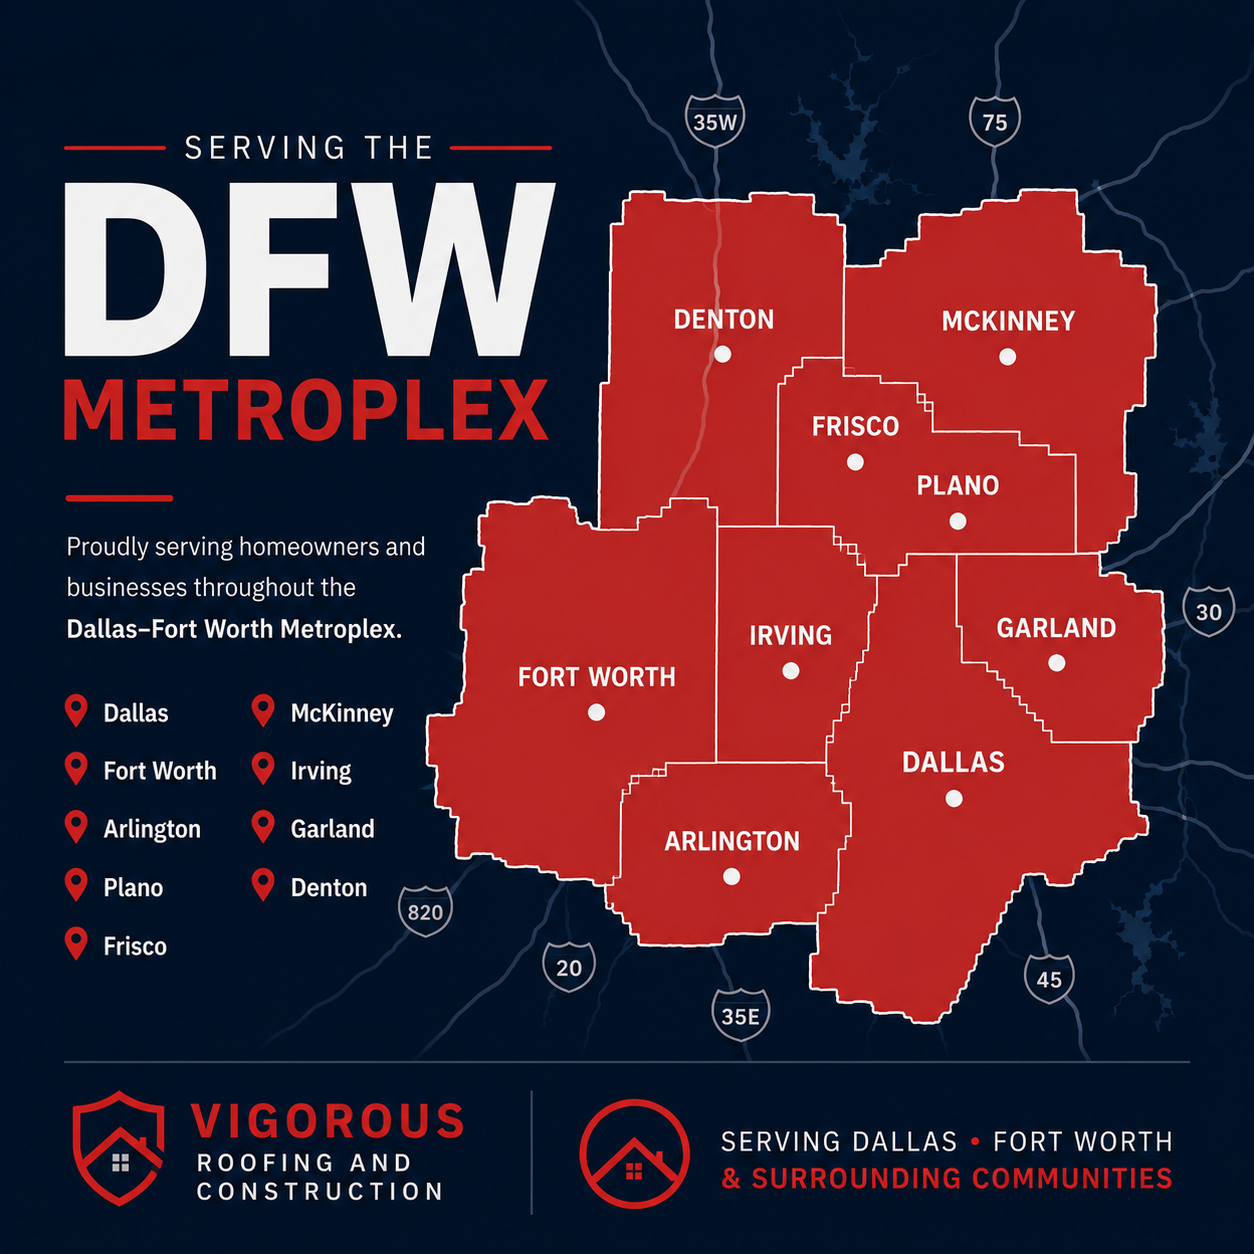
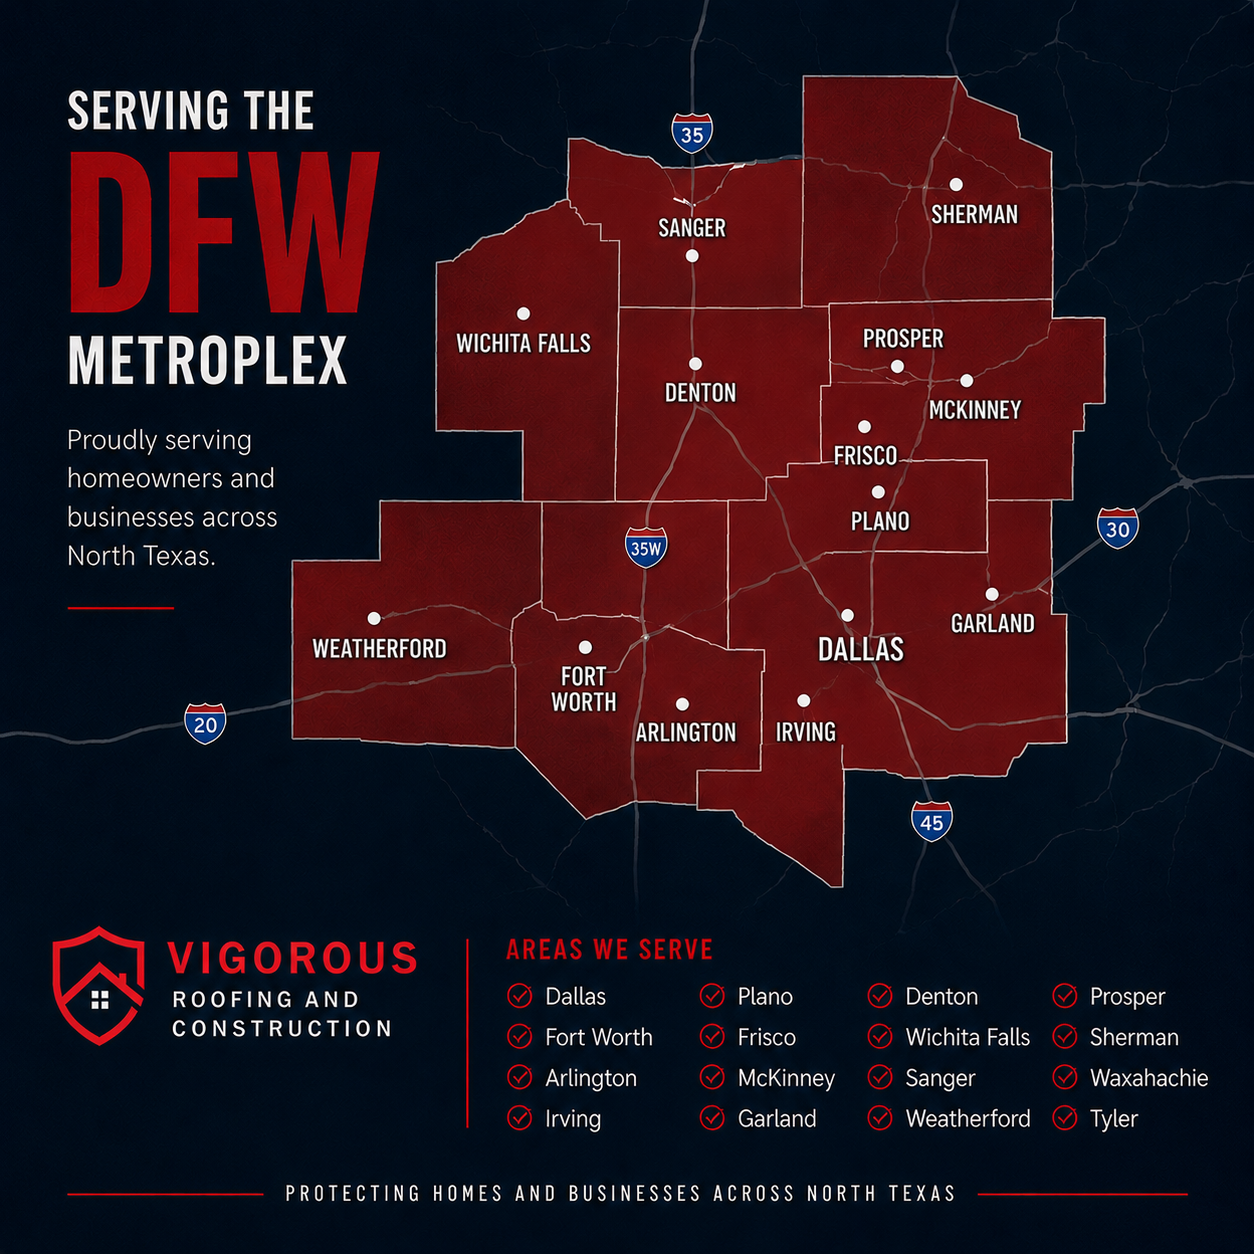
main update 1

diff --git a/src/assets/css/output.css b/src/assets/css/output.css
@@ -274,9 +274,6 @@
   .right-6 {
     right: calc(var(--spacing) * 6);
   }
-  .left-6 {
-    left: calc(var(--spacing) * 6);
-  }
   .z-0 {
     z-index: 0;
   }
@@ -295,8 +292,8 @@
   .mt-1 {
     margin-top: calc(var(--spacing) * 1);
   }
-  .mt-2 {
-    margin-top: calc(var(--spacing) * 2);
+  .mt-3 {
+    margin-top: calc(var(--spacing) * 3);
   }
   .mt-4 {
     margin-top: calc(var(--spacing) * 4);
@@ -328,6 +325,9 @@
   .mb-10 {
     margin-bottom: calc(var(--spacing) * 10);
   }
+  .mb-12 {
+    margin-bottom: calc(var(--spacing) * 12);
+  }
   .mb-14 {
     margin-bottom: calc(var(--spacing) * 14);
   }
@@ -355,8 +355,8 @@
   .inline-flex {
     display: inline-flex;
   }
-  .aspect-\[4\/3\] {
-    aspect-ratio: 4/3;
+  .aspect-square {
+    aspect-ratio: 1 / 1;
   }
   .h-1 {
     height: calc(var(--spacing) * 1);
@@ -399,6 +399,9 @@
   }
   .max-h-\[85vh\] {
     max-height: 85vh;
+  }
+  .max-h-full {
+    max-height: 100%;
   }
   .min-h-\[70vh\] {
     min-height: 70vh;
@@ -643,12 +646,6 @@
       border-color: color-mix(in oklab, var(--color-white) 10%, transparent);
     }
   }
-  .border-white\/20 {
-    border-color: color-mix(in srgb, #fff 20%, transparent);
-    @supports (color: color-mix(in lab, red, red)) {
-      border-color: color-mix(in oklab, var(--color-white) 20%, transparent);
-    }
-  }
   .border-white\/35 {
     border-color: color-mix(in srgb, #fff 35%, transparent);
     @supports (color: color-mix(in lab, red, red)) {
@@ -672,9 +669,6 @@
   }
   .bg-\[\#2f2f2f\] {
     background-color: #2f2f2f;
-  }
-  .bg-\[\#3d3e3f\] {
-    background-color: #3d3e3f;
   }
   .bg-\[\#f5f5f5\] {
     background-color: #f5f5f5;
@@ -727,17 +721,8 @@
   .bg-gray-200 {
     background-color: var(--color-gray-200);
   }
-  .bg-slate-800 {
-    background-color: var(--color-slate-800);
-  }
   .bg-white {
     background-color: var(--color-white);
-  }
-  .bg-white\/90 {
-    background-color: color-mix(in srgb, #fff 90%, transparent);
-    @supports (color: color-mix(in lab, red, red)) {
-      background-color: color-mix(in oklab, var(--color-white) 90%, transparent);
-    }
   }
   .bg-cover {
     background-size: cover;
@@ -752,9 +737,6 @@
   .object-cover {
     -o-object-fit: cover;
        object-fit: cover;
-  }
-  .p-1 {
-    padding: calc(var(--spacing) * 1);
   }
   .p-2 {
     padding: calc(var(--spacing) * 2);
@@ -845,6 +827,10 @@
   .text-4xl {
     font-size: var(--text-4xl);
     line-height: var(--tw-leading, var(--text-4xl--line-height));
+  }
+  .text-5xl {
+    font-size: var(--text-5xl);
+    line-height: var(--tw-leading, var(--text-5xl--line-height));
   }
   .text-base {
     font-size: var(--text-base);
@@ -1150,13 +1136,6 @@
       }
     }
   }
-  .hover\:bg-black {
-    &:hover {
-      @media (hover: hover) {
-        background-color: var(--color-black);
-      }
-    }
-  }
   .hover\:bg-gray-100 {
     &:hover {
       @media (hover: hover) {
@@ -1212,6 +1191,13 @@
       }
     }
   }
+  .hover\:opacity-90 {
+    &:hover {
+      @media (hover: hover) {
+        opacity: 90%;
+      }
+    }
+  }
   .hover\:shadow-2xl {
     &:hover {
       @media (hover: hover) {
@@ -1226,23 +1212,15 @@
       box-shadow: var(--tw-inset-shadow), var(--tw-inset-ring-shadow), var(--tw-ring-offset-shadow), var(--tw-ring-shadow), var(--tw-shadow);
     }
   }
-  .focus\:ring-\[\#3d3e3f\] {
+  .focus\:ring-brand-red {
     &:focus {
-      --tw-ring-color: #3d3e3f;
+      --tw-ring-color: var(--color-brand-red);
     }
   }
   .focus\:outline-none {
     &:focus {
       --tw-outline-style: none;
       outline-style: none;
-    }
-  }
-  .active\:scale-95 {
-    &:active {
-      --tw-scale-x: 95%;
-      --tw-scale-y: 95%;
-      --tw-scale-z: 95%;
-      scale: var(--tw-scale-x) var(--tw-scale-y);
     }
   }
   .sm\:inline {
@@ -1282,11 +1260,6 @@
       display: none;
     }
   }
-  .md\:w-auto {
-    @media (width >= 48rem) {
-      width: auto;
-    }
-  }
   .md\:max-w-\[320px\] {
     @media (width >= 48rem) {
       max-width: 320px;
@@ -1305,6 +1278,11 @@
   .md\:flex-row {
     @media (width >= 48rem) {
       flex-direction: row;
+    }
+  }
+  .md\:p-10 {
+    @media (width >= 48rem) {
+      padding: calc(var(--spacing) * 10);
     }
   }
   .md\:px-10 {

diff --git a/src/index.md b/src/index.md
@@ -16,7 +16,7 @@ permalink: /
 </div>
 <div class="grid grid-cols-1 md:grid-cols-3 gap-8 mb-24">
 <a href="/services/residential/" class="block group h-full">
-<div class="group h-full p-10 border border-white/10 rounded-2xl bg-white text-[#3d3e3f] text-center transition-all hover:shadow-2xl hover:-translate-y-2">
+<div class="group h-full p-10 border border-white/10 rounded-2xl bg-gray-50 text-[#3d3e3f] text-center transition-all hover:shadow-2xl hover:-translate-y-2">
 <div class="w-16 h-16 bg-brand-red/10 text-brand-red rounded-full flex items-center justify-center mx-auto mb-6 group-hover:bg-brand-red group-hover:text-white transition-colors">
 <span class="text-2xl">🏠</span>
 </div>
@@ -25,7 +25,7 @@ permalink: /
 </div>
 </a>
 <a href="/services/commercial/" class="block group h-full">
-<div class="group h-full p-10 border border-white/10 rounded-2xl bg-white text-[#3d3e3f] text-center transition-all hover:shadow-2xl hover:-translate-y-2 cursor-pointer">
+<div class="group h-full p-10 border border-white/10 rounded-2xl bg-gray-50 text-[#3d3e3f] text-center transition-all hover:shadow-2xl hover:-translate-y-2 cursor-pointer">
 <div class="w-16 h-16 bg-brand-red/10 text-brand-red rounded-full flex items-center justify-center mx-auto mb-6 group-hover:bg-brand-red group-hover:text-white transition-colors">
 <span class="text-2xl">🏢</span>
 </div>
@@ -34,7 +34,7 @@ permalink: /
 </div>
 </a>
 <a href="/services/storm-damage/" class="block group h-full">
-<div class="group h-full p-10 border border-white/10 rounded-2xl bg-white text-[#3d3e3f] text-center transition-all hover:shadow-2xl hover:-translate-y-2 cursor-pointer">
+<div class="group h-full p-10 border border-white/10 rounded-2xl bg-gray-50 text-[#3d3e3f] text-center transition-all hover:shadow-2xl hover:-translate-y-2 cursor-pointer">
 <div class="w-16 h-16 bg-brand-red/10 text-brand-red rounded-full flex items-center justify-center mx-auto mb-6 group-hover:bg-brand-red group-hover:text-white transition-colors">
 <span class="text-2xl">⛈</span>
 </div>
@@ -45,29 +45,33 @@ permalink: /
 </div>
 <!-- Construction section -->
 <div class="grid grid-cols-1 md:grid-cols-3 gap-8 mb-24">
-<div class="group h-full p-10 border border-white/10 rounded-2xl bg-white text-[#3d3e3f] text-center transition-all hover:shadow-2xl hover:-translate-y-2 cursor-pointer">
+<a href="/services/remodeling/" class="block group h-full">
+<div class="group h-full p-10 border border-white/10 rounded-2xl bg-gray-50 text-[#3d3e3f] text-center transition-all hover:shadow-2xl hover:-translate-y-2 cursor-pointer">
 <div class="w-16 h-16 bg-brand-red/10 text-brand-red rounded-full flex items-center justify-center mx-auto mb-6 group-hover:bg-brand-red group-hover:text-white transition-colors">
 <span class="text-2xl">🏠</span>
 </div>
-<h3 class="text-xl font-bold mb-3">Remodeling</h3>
-<p class="text-gray-600 text-sm leading-relaxed">Specializing in bathroom and kitchen remodels.</p>
+<h3 class="text-xl font-bold mb-3">Remodeling & Flooring</h3>
+<p class="text-gray-600 text-sm leading-relaxed">Specializing in full-scale home remodels.</p>
 </div>
-
-<div class="group h-full p-10 border border-white/10 rounded-2xl bg-white text-[#3d3e3f] text-center transition-all hover:shadow-2xl hover:-translate-y-2 cursor-pointer">
+</a>
+<a href="/services/fencing/" class="block group h-full">
+<div class="group h-full p-10 border border-white/10 rounded-2xl bg-gray-50 text-[#3d3e3f] text-center transition-all hover:shadow-2xl hover:-translate-y-2 cursor-pointer">
 <div class="w-16 h-16 bg-brand-red/10 text-brand-red rounded-full flex items-center justify-center mx-auto mb-6 group-hover:bg-brand-red group-hover:text-white transition-colors">
 <span class="text-2xl">🏢</span>
 </div>
-<h3 class="text-xl font-bold mb-3">Commercial Construction</h3>
-<p class="text-gray-600 text-sm leading-relaxed">Protect your business and investment.</p>
+<h3 class="text-xl font-bold mb-3">Fencing</h3>
+<p class="text-gray-600 text-sm leading-relaxed"> Installation, replacement, and teardown services.</p>
 </div>
-
-<div class="group h-full p-10 border border-white/10 rounded-2xl bg-white text-[#3d3e3f] text-center transition-all hover:shadow-2xl hover:-translate-y-2 cursor-pointer">
+</a>
+<a href="/services/concrete/" class="block group h-full">
+<div class="group h-full p-10 border border-white/10 rounded-2xl bg-gray-50 text-[#3d3e3f] text-center transition-all hover:shadow-2xl hover:-translate-y-2 cursor-pointer">
 <div class="w-16 h-16 bg-brand-red/10 text-brand-red rounded-full flex items-center justify-center mx-auto mb-6 group-hover:bg-brand-red group-hover:text-white transition-colors">
 <span class="text-2xl">⛈</span>
 </div>
-<h3 class="text-xl font-bold mb-3">Storm Restoration</h3>
-<p class="text-gray-600 text-sm leading-relaxed">Flooding and Window installation</p>
+<h3 class="text-xl font-bold mb-3">Concrete and asphalt</h3>
+<p class="text-gray-600 text-sm leading-relaxed"> Driveways, patios, walkways, concrete pads, and repair services for residential and commercial properties.</p>
 </div>
+</a>
 </div>
 
 <!-- 2. Conversion Section -->
@@ -75,14 +79,14 @@ permalink: /
 <section class="grid grid-cols-1 md:grid-cols-2 gap-12 w-full items-stretch">
 
   <!-- Estimate Card -->
-  <div class="bg-white p-12 rounded-3xl text-black shadow-2xl flex flex-col justify-center">
+  <div class="bg-gray-50 p-12 rounded-3xl text-black shadow-2xl flex flex-col justify-center">
     <h2 class="text-3xl font-black mb-4 text-gray-900 uppercase tracking-tighter">
       Quick Estimate
     </h2>
     <p class="text-gray-500 mb-8">
       Call us for an estimate.
     </p>
-    <div class="p-8 border-2 border-dashed border-gray-200 rounded-2xl bg-gray-50 text-center">
+    <div class="p-8 border-2 border-dashed border-gray-200 rounded-2xl bg-gray-100 text-center">
       <p class="font-bold text-gray-400 italic">
         Online Form Integrating Soon
       </p>

diff --git a/src/services/remodeling.md b/src/services/remodeling.md
@@ -1,0 +1,27 @@
+---
+layout: service.njk
+
+title: Remodeling & Flooring
+
+description: Professional remodeling and flooring services that improve comfort, functionality, and property value.
+
+heroImage: /assets/images/remodel-hero.jpg
+
+serviceImage: /assets/images/remodel-detail.jpg
+
+permalink: /services/remodeling/
+---
+
+We provide high-quality remodeling and flooring services designed to transform residential and commercial spaces throughout the Dallas–Fort Worth area.
+
+## Our team specializes in:
+
+- Kitchen remodeling
+- Bathroom remodeling
+- Flooring installation
+- Attic foam insulation
+- Interior improvements
+
+## Built for Comfort and Value
+
+Whether you're updating a single room or planning a larger renovation, our team focuses on quality craftsmanship, durable materials, and attention to detail to ensure long-lasting results.

diff --git a/src/services/concrete.md b/src/services/concrete.md
@@ -1,0 +1,27 @@
+---
+layout: service.njk
+
+title: Concrete Services
+
+description: Reliable concrete installation and repair services for residential and commercial properties.
+
+heroImage: /assets/images/concrete-hero.jpg
+
+serviceImage: /assets/images/concrete-detail.jpg
+
+permalink: /services/concrete/
+---
+
+We provide professional concrete services for projects ranging from small residential improvements to larger commercial applications.
+
+## Our team specializes in:
+
+- Concrete driveways
+- Sidewalks and walkways
+- Patios and outdoor living areas
+- Concrete repairs
+- Concrete pads and foundations
+
+## Built for Strength and Longevity
+
+Our concrete work is designed to provide long-term durability, functionality, and a clean finished appearance that adds value to your property.

diff --git a/src/services/fencing.md b/src/services/fencing.md
@@ -1,0 +1,27 @@
+---
+layout: service.njk
+
+title: Fencing
+
+description: Durable fencing solutions that provide security, privacy, and curb appeal for your property.
+
+heroImage: /assets/images/fencing-hero.jpg
+
+serviceImage: /assets/images/fencing-detail.jpg
+
+permalink: /services/fencing/
+---
+
+We provide professional fencing services for homeowners and businesses looking to enhance security, privacy, and property appearance.
+
+## Our team specializes in:
+
+- Fence installation
+- Fence replacement
+- Fence removal and teardown
+- Wood fencing
+- Privacy fencing
+
+## Built for Security and Durability
+
+Every fencing project is completed with quality materials and dependable workmanship to ensure your fence stands up to Texas weather and daily use for years to come.
